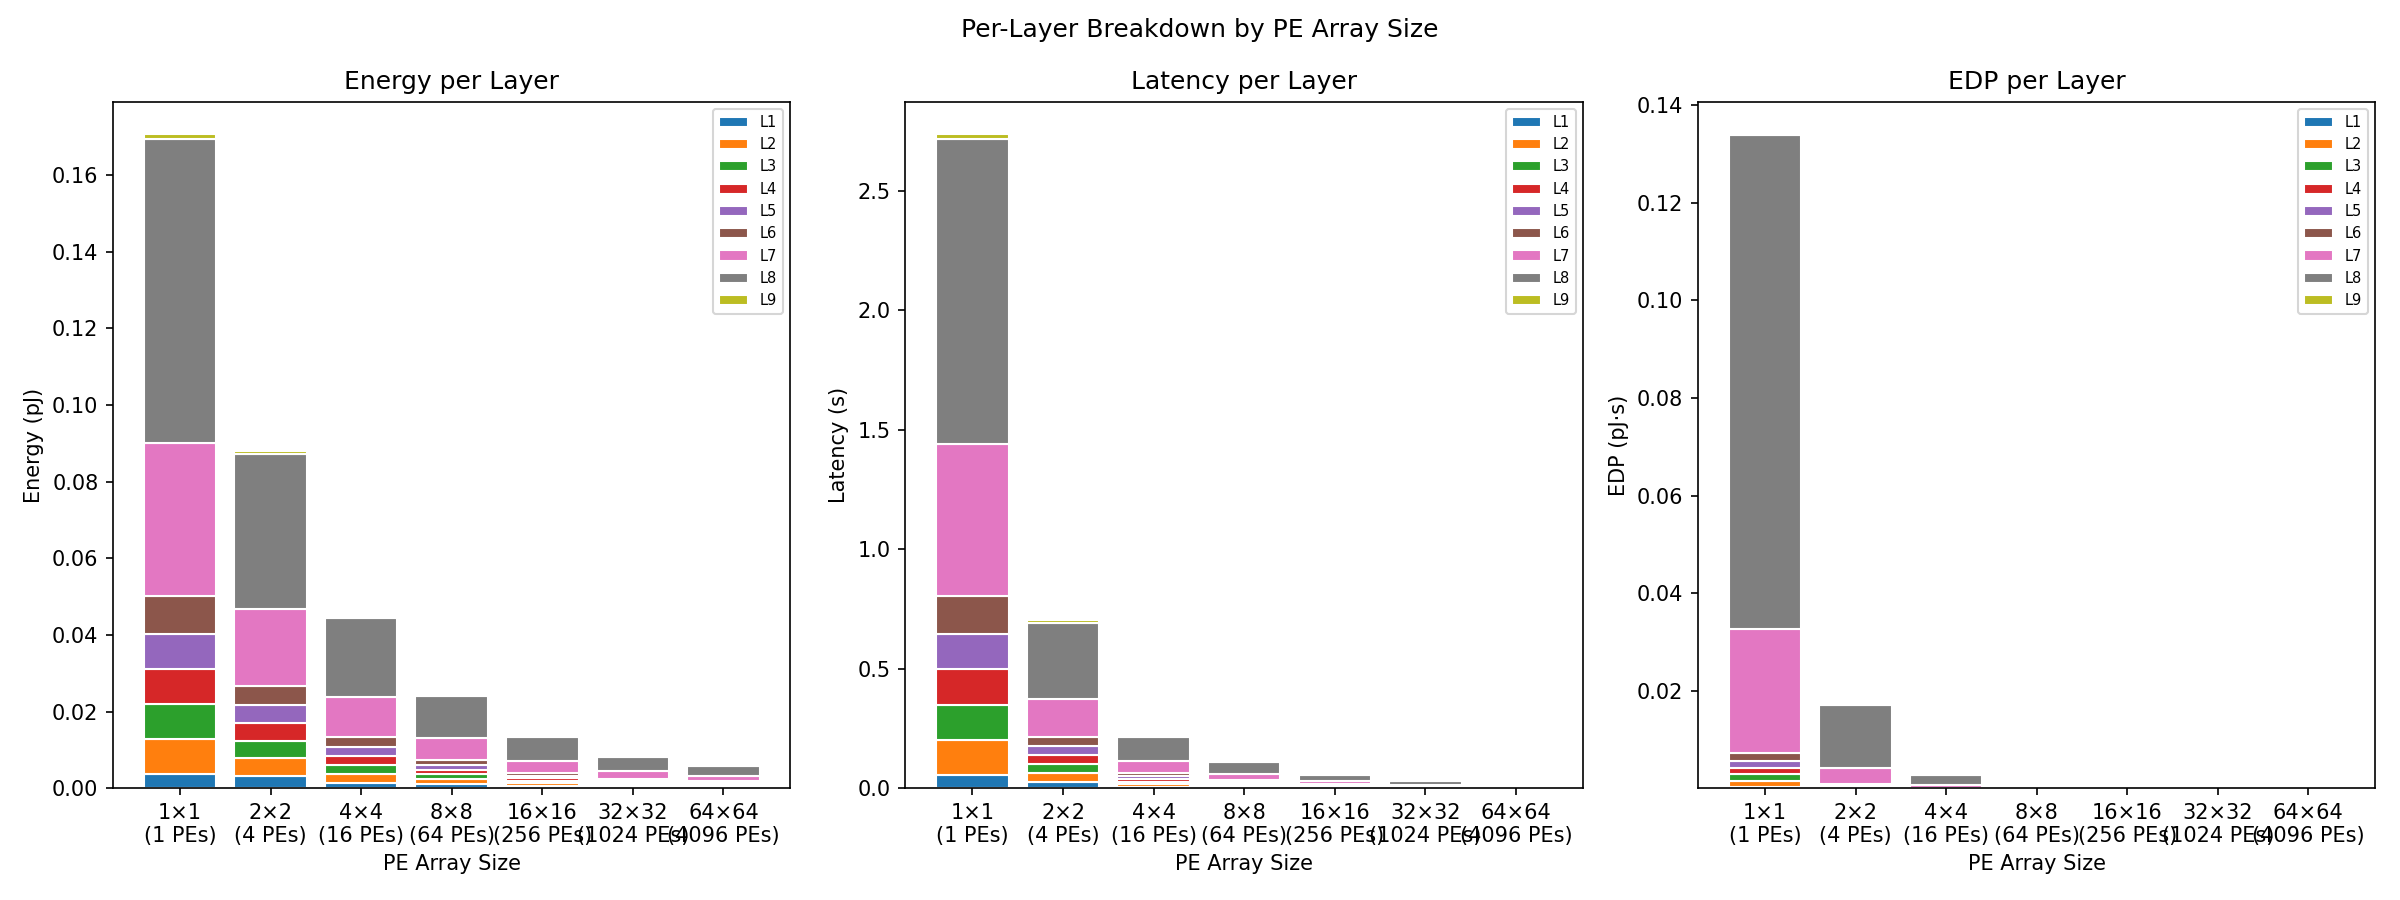
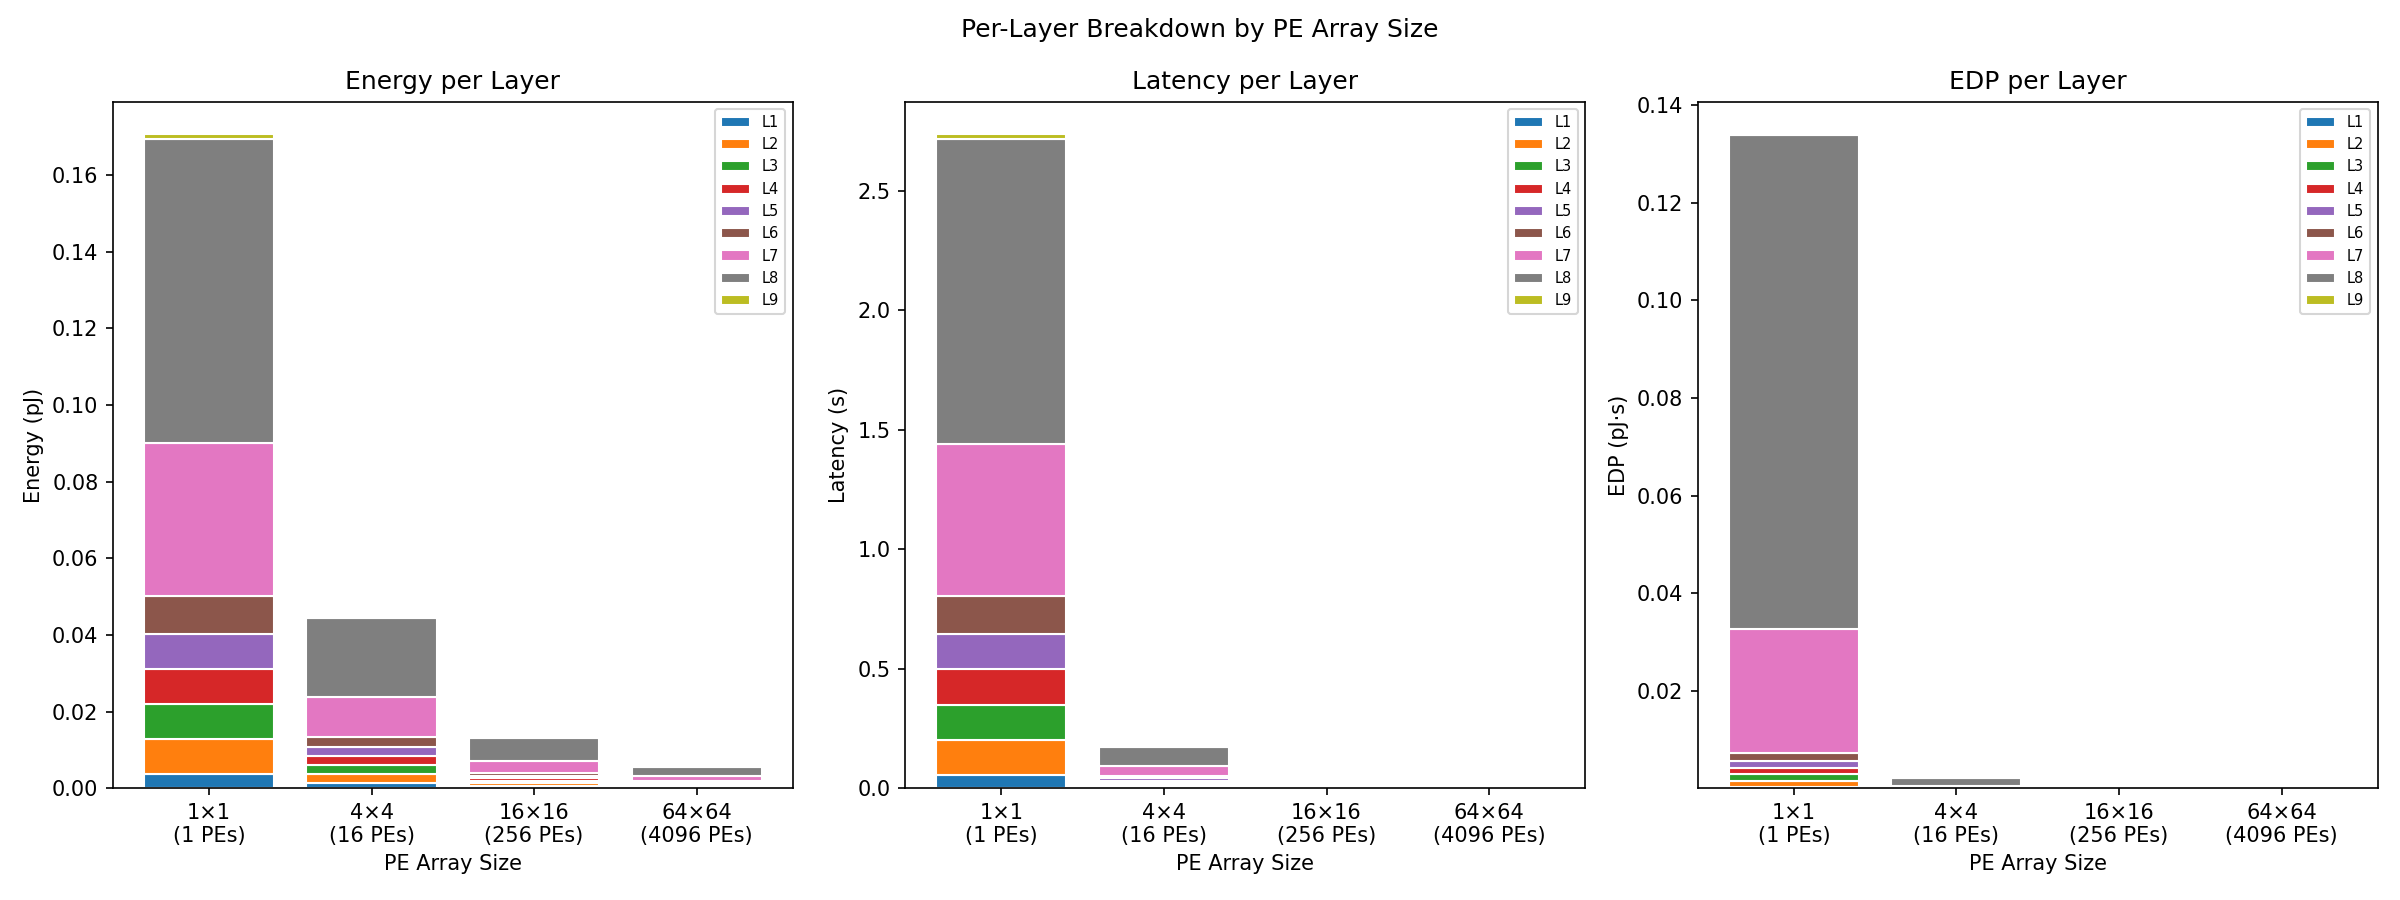
New architectures and sweep:

diff --git a/new_workspace/scripts/sweep_area.py b/new_workspace/scripts/sweep_area.py
@@ -10,10 +10,22 @@ ARCH_SRC     = str(WORKSPACE / "arches"    / "custom_accelerator_sweep_NON_IDEAL
 # ARCH_SRC     = str(WORKSPACE / "arches"    / "accelerator_sweep_no_reuse.yaml")
 
 LAYERS   = ["L1", "L2", "L3", "L4", "L5", "L6", "L7", "L8", "L9"]
-# FANOUTS  = [1, 2, 4, 8, 16, 32, 64]
-FANOUTS  = [1, 4, 16, 64]
-FREQ_GHZ = 4.0
-GLB_KB   = 1024
+# FANOUTS  = [1, 4, 16, 64]
+FANOUT = 8
+FREQ_GHZ = 1.0
+# The benchmark in the YAML is based on 64KB having an area of 2.4e-7 m² (0.24 mm²).
+# Realistic GlobalBuffer capacities for edge ML range from ~128KB to 8MB.
+# Therefore, realistic area sizes in mm² are:
+# 128KB = 0.48 mm²
+# 256KB = 0.96 mm²
+# 512KB = 1.92 mm²
+# 1MB   = 3.84 mm²
+# 2MB   = 7.68 mm²
+# 4MB   = 15.36 mm²
+# 8MB   = 30.72 mm²
+AREA_SIZES = [0.48, 0.96, 1.92, 3.84, 7.68, 15.36, 30.72]
+
+
 
 def min_edp_filter(df):
     return (df["Total<SEP>energy"] * df["Total<SEP>latency"]).argmin()
@@ -27,21 +39,27 @@ def extract_metrics(data, layers):
 # ── Sweep ────────────────────────────────────────────────────────────────────
 results = {}   # fanout -> {n_pes, total_energy, total_latency, total_edp, per_layer}
 
-for fanout in FANOUTS:
-    n_pes = fanout * fanout
-    print(f"Running fanout={fanout} ({n_pes} PEs)...", end=" ", flush=True)
+for area in AREA_SIZES:
+    label = f"{area:.2f} mm²"
+    # The YAML expects AREA_SIZE as a scaler based on the 64KB = 2.4e-7 m² rule.
+    # area_m² = 2.4e-7 * (yaml_scaler / 64)
+    # area_mm² * 1e-6 = 2.4e-7 * (yaml_scaler / 64)
+    # yaml_scaler = (area_mm² / 0.24) * 64
+    yaml_area_scaler = (area / 0.24) * 64
+    print(f"Running Area={label} (fanout={FANOUT}, {FANOUT*FANOUT} PEs)...",
+          end=" ", flush=True)
     try:
         spec = af.Spec.from_yaml(ARCH_SRC, WORKLOAD_SRC,
                                  jinja_parse_data={
-                                     "GLB_KB"  : GLB_KB,
+                                     "AREA_SIZE": yaml_area_scaler,
                                      "FREQ_GHZ": FREQ_GHZ,
-                                     "FANOUT_X": fanout,
-                                     "FANOUT_Y": fanout,
+                                     "FANOUT_X": FANOUT,
+                                     "FANOUT_Y": FANOUT,
                                  })
         mappings = spec.map_workload_to_arch()
         data     = mappings.data.iloc[[min_edp_filter(mappings.data)]]
 
-        # Add this right after getting `data` in your sweep script
+        # Leak energy debug printing
         for layer in LAYERS:
             leak_cols = [c for c in data.columns if f"{layer}<SEP>energy" in c and "leak" in c]
             if leak_cols:
@@ -62,8 +80,9 @@ for fanout in FANOUTS:
             l = data[l_cols].max(axis=1).values[0]
             per_layer[layer] = {"energy": e, "latency": l, "edp": e * l}
 
-        results[fanout] = {
-            "n_pes"        : n_pes,
+        results[area] = {
+            "area"         : area,
+            "label"        : label,
             "total_energy" : total_energy,
             "total_latency": total_latency,
             "total_edp"    : total_edp,
@@ -74,49 +93,51 @@ for fanout in FANOUTS:
         print(f"FAILED: {ex}")
 
 # ── Print table ───────────────────────────────────────────────────────────────
-print(f"\n{'Fanout':<8} {'PEs':>6}  {'Energy (pJ)':>14}  {'Latency (s)':>14}  {'EDP (pJ·s)':>14}")
-print("-" * 64)
+print(f"\n{'Area':>10}  {'Energy (pJ)':>14}  {'Latency (s)':>14}  {'EDP (pJ·s)':>14}")
+print("-" * 56)
 for fanout, r in results.items():
-    print(f"{fanout:<8} {r['n_pes']:>6}  {r['total_energy']:>14.4e}"
+    print(f"{r['label']:>10}  {r['total_energy']:>14.4e}"
           f"  {r['total_latency']:>14.4e}  {r['total_edp']:>14.4e}")
 
 # ── Plot 1: Total metrics vs PE count ────────────────────────────────────────
-pe_counts = [r["n_pes"]         for r in results.values()]
+area_labels = [r["label"]         for r in results.values()]
+areas       = [r["area"]        for r in results.values()]
 energies  = [r["total_energy"]  for r in results.values()]
 latencies = [r["total_latency"] for r in results.values()]
 edps      = [r["total_edp"]     for r in results.values()]
 
 fig, axes = plt.subplots(1, 3, figsize=(15, 5))
-fig.suptitle(f"TinyYOLOv2 — Sweep over PE Array Size (GLB={GLB_KB}KB, {FREQ_GHZ}GHz)", fontsize=12)
+fig.suptitle(f"TinyYOLOv2 — Sweep over Area Size ((Fanout={FANOUT}×{FANOUT}={FANOUT*FANOUT} PEs, {FREQ_GHZ}GHz)", fontsize=12)
 
 def total_plot(ax, y, title, ylabel, color):
-    ax.plot(pe_counts, y, marker="o", color=color, linewidth=2)
+    ax.plot(areas, y, marker="o", color=color, linewidth=2)
     ax.set_title(title)
-    ax.set_xlabel("Number of PEs (Fanout² )")
+    ax.set_xlabel("Area Size (mm²)")
     ax.set_ylabel(ylabel)
     ax.set_xscale("log", base=2)
-    ax.xaxis.set_major_formatter(ticker.FuncFormatter(lambda x, _: f"{int(x)}"))
+    ax.set_xticks(areas)
+    ax.xaxis.set_major_formatter(ticker.FuncFormatter(lambda x, _: f"{x:.2f}"))
     ax.grid(True, which="both", linestyle="--", alpha=0.4)
-    for x, y_val in zip(pe_counts, y):
+    for x, y_val in zip(areas, y):
         ax.annotate(f"{y_val:.2e}", (x, y_val), textcoords="offset points",
                     xytext=(0, 8), ha="center", fontsize=7)
 
-total_plot(axes[0], energies,  "Total Energy vs PEs",  "Energy (pJ)",  "steelblue")
-total_plot(axes[1], latencies, "Total Latency vs PEs", "Latency (s)",  "darkorange")
-total_plot(axes[2], edps,      "Total EDP vs PEs",     "EDP (pJ·s)",  "seagreen")
+total_plot(axes[0], energies,  "Total Energy vs Area",  "Energy (pJ)",  "steelblue")
+total_plot(axes[1], latencies, "Total Latency vs Area", "Latency (s)",  "darkorange")
+total_plot(axes[2], edps,      "Total EDP vs Area",     "EDP (pJ·s)",  "seagreen")
 
 plt.tight_layout()
 out = WORKSPACE / "outputs"
 out.mkdir(exist_ok=True)
-plt.savefig(out / "sweep_totals.png", dpi=150)
-print(f"\nSaved: {out / 'sweep_totals.png'}")
+plt.savefig(out / "sweep_area_totals.png", dpi=150)
+print(f"\nSaved: {out / 'sweep_area_totals.png'}")
 
 # ── Plot 2: Per-layer EDP breakdown as stacked bar per fanout ────────────────
 fig, axes = plt.subplots(1, 3, figsize=(16, 6))
-fig.suptitle("Per-Layer Breakdown by PE Array Size", fontsize=12)
+fig.suptitle(f"Per-Layer Breakdown by Area Size (Fanout={FANOUT}×{FANOUT})", fontsize=12)
 
-colors = plt.cm.tab10.colors
-fanout_labels = [f"{f}×{f}\n({f*f} PEs)" for f in results.keys()]
+colors       = plt.cm.tab10.colors
+bar_labels   = [r["label"] for r in results.values()]
 
 for ax, metric, ylabel, title in [
     (axes[0], "energy",  "Energy (pJ)",  "Energy per Layer"),
@@ -126,16 +147,17 @@ for ax, metric, ylabel, title in [
     bottoms = [0.0] * len(results)
     for j, layer in enumerate(LAYERS):
         values = [r["per_layer"][layer][metric] for r in results.values()]
-        ax.bar(fanout_labels, values, bottom=bottoms, label=layer,
+        ax.bar(bar_labels, values, bottom=bottoms, label=layer,
                color=colors[j], edgecolor="white")
         bottoms = [b + v for b, v in zip(bottoms, values)]
     ax.set_title(title)
-    ax.set_xlabel("PE Array Size")
+    ax.set_xlabel("Area Size")
     ax.set_ylabel(ylabel)
+    ax.tick_params(axis="x", rotation=45)
     ax.legend(fontsize=7, loc="upper right")
 
 plt.tight_layout()
-plt.savefig(out / "sweep_per_layer.png", dpi=150)
-print(f"Saved: {out / 'sweep_per_layer.png'}")
+plt.savefig(out / "sweep_area_per_layer.png", dpi=150)
+print(f"Saved: {out / 'sweep_area_per_layer.png'}")
 
 plt.show()

diff --git a/new_workspace/scripts/test_mapping.py b/new_workspace/scripts/test_mapping.py
@@ -5,13 +5,10 @@ import os
 WORKSPACE    = Path(__file__).resolve().parent.parent
 WORKLOAD_SRC = str(WORKSPACE / "workloads" / "tiny_yolo_test.yaml")
 # ARCH_SRC     = str(WORKSPACE / "arches"    / "custom_accelerator_sweep.yaml")
-ARCH_SRC     = str(WORKSPACE / "arches"    / "custom_accelerator_sweep_NON_IDEAL.yaml")
+ARCH_SRC     = str(WORKSPACE / "arches"    / "simba_accelerator.yaml")
 
 spec     = af.Spec.from_yaml(ARCH_SRC, WORKLOAD_SRC,
-                              jinja_parse_data={"GLB_KB"   :1024,
-                                                "FREQ_GHZ" : 1.0,
-                                                "FANOUT_X" : 64,
-                                                "FANOUT_Y" : 64,})
+                              jinja_parse_data={})
 mappings = spec.map_workload_to_arch()
 print(spec.arch)
 # print(mappings.data.columns.tolist())

diff --git a/new_workspace/scripts/sweep_glb.py b/new_workspace/scripts/sweep_glb.py
@@ -83,13 +83,9 @@ def total_plot(ax, y, title, ylabel, color):
     ax.set_ylabel(ylabel)
     ax.set_xscale("log", base=2)
     ax.set_xticks(glb_kbs)
-    ax.xaxis.set_major_formatter(ticker.FuncFormatter(
-        lambda x, _: f"{int(x)}KB" if x < 1024 else f"{int(x)//1024}MB"
-    ))
-    ax.tick_params(axis="x", rotation=45)
-    ax.axvline(x=1024, color="gray", linestyle="--", alpha=0.5, label="1MB center")
+    ax.xaxis.set_major_formatter(ticker.FuncFormatter(lambda x, _: f"{int(x)}"))
     ax.grid(True, which="both", linestyle="--", alpha=0.4)
-    for x, y_val in zip(glb_kbs, y):
+    for x, y_val in zip(pe_counts, y):
         ax.annotate(f"{y_val:.2e}", (x, y_val), textcoords="offset points",
                     xytext=(0, 8), ha="center", fontsize=7)
 
